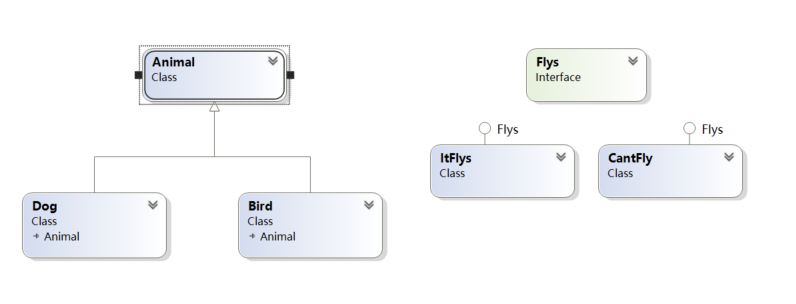
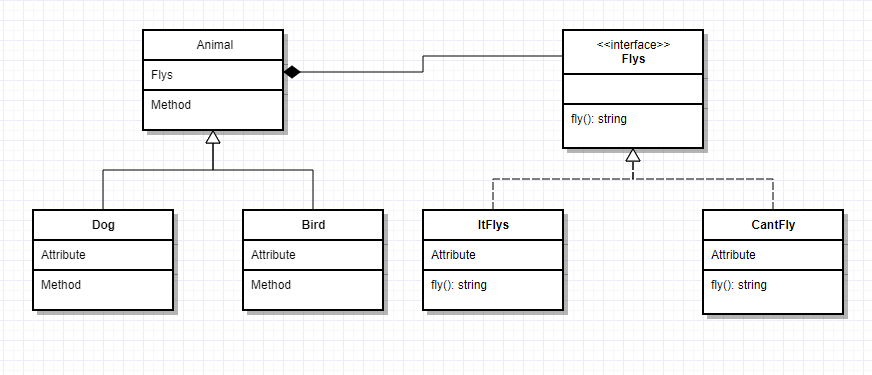
Add an article
"Observer Design Pattern"
Revise pattern diagram

Changed region(s): [[0.0302, 0.0592, 0.995, 0.8586], [0.4824, 0.0592, 0.8442, 0.4441], [0.8442, 0.4145, 0.9045, 0.4441]]

diff --git a/_posts/2017-09-12-observer-design-pattern.md b/_posts/2017-09-12-observer-design-pattern.md
@@ -1,0 +1,227 @@
+---
+title: "Observer Design Pattern"
+date: 2017-09-12
+category: Other
+tags: [design pattern, observer]
+comments: true
+
+---
+
+## When to use
+
+When you need many other objects to receive an update when another object changes.  
+* Stock market with thousands of stocks needs to send updates to objects representing individual stocks.  
+* The Subject (publisher) sends many stocks to the Observers  
+* The Observers (subscribers) takes the ones they want and use them  
+
+***
+
+## Strengths
+* Loose coupling is a benefit  
+    * The Subject (publisher) doesn't need to know anything about the Observers (subscribers)
+
+***
+## Negatives
+
+* The Subject (publisher) may send updates that don't matter to the Observer (subscriber)
+
+  
+*** 
+
+## Relation diagram
+
+
+<p align="center">
+<img src="/images/post/20170912002.png" alt="observer diagram" width="70%"  /><br/>
+<center><h5><b>Figure 1</b></h5></center>
+</p>
+
+The **Observer pattern** is a software design pattern in which an object, called the subject, maintains a list of its dependents, called observers, and notifies them automatically of any state changes, usually by calling one of their methods.  
+
+***
+
+## Code implementation
+
+**Subject.cs**  
+  
+    /*
+     * This interface handles adding, deleting and updating
+     * all observers
+     */
+    public interface Subject
+    {
+        void Register(Observer o);
+
+        void Unregister(Observer o);
+
+        void NotifyObserver();
+    }
+
+**Observer.cs**  
+
+    /*
+     * The Observers update method is called when the Subject changes
+     */
+    public interface Observer
+    {
+        new void Update(double ibmPrice, double aaplPrice, double googPrice);
+    }
+
+
+**StockGrabber.cs**  
+
+    // Uses the Subject interface to update all Observers
+    public class StockGrabber: Subject
+    {
+        private List<Observer> observers;
+
+        private double ibmPrice;
+        private double aaplPrice;
+        private double googPrice;
+
+        public StockGrabber()
+        {
+            // Creates an List to hold all observers
+            observers = new List<Observer>();
+        }
+        public void Register(Observer newObserver)
+        {
+            observers.Add(newObserver);
+        }
+
+        public void Unregister(Observer deleteObserver)
+        {
+            // Get the index of the observer to delete
+            int observerIndex = observers.IndexOf(deleteObserver);
+
+            // Print out message (Have to increment index to match)
+            Console.WriteLine("Observer " + (observerIndex + 1) + " deleted");
+
+            // Removes observer from the List
+            observers.RemoveAt(observerIndex);
+        }
+
+        public void NotifyObserver()
+        {
+            // cycle through all observers and notifies them of price changes
+
+            foreach (Observer observer in observers)
+            {
+                observer.Update(ibmPrice, aaplPrice, googPrice);
+            }
+        }
+
+        public void setIBMPrice(double newIBMPrice)
+        {
+            this.ibmPrice = newIBMPrice;
+            NotifyObserver();
+        }
+
+        public void setAPPLPrice(double newAPPLPrice)
+        {
+            this.aaplPrice = newAPPLPrice;
+            NotifyObserver();
+        }
+
+        public void setGOOGPrice(double newGOOGPrice)
+        {
+            this.googPrice = newGOOGPrice;
+            NotifyObserver();
+        }
+    }
+        
+**StockObserver.cs**  
+
+    // Represents each Observer that is monitoring changes in the subject
+    public class StockObserver:Observer
+    {
+        private double ibmPrice;
+        private double applPrice;
+        private double googPrice;
+
+        // Static used as a counter
+        private static int observerIDTracker = 0;
+
+        // Used to track the observers
+        private int observerID;
+
+        // Will hold reference to the StockGrabber object
+        private Subject stockGrabber;
+
+        public StockObserver(Subject stockGrabber)
+        {
+            /*
+             * Store the reference to the stockGrabber object so
+             * I can make calls to its methods
+             */
+            this.stockGrabber = stockGrabber;
+
+            // Assign an observer ID and increment the static counter
+            this.observerID = ++observerIDTracker;
+
+            // Message notifies user of new observer
+            Console.WriteLine("New Observer " + this.observerID);
+
+            // Add the observer to the Subjects List
+            stockGrabber.Register(this);
+        }
+
+        public void Update(double ibmPrice, double applPrice, double googPrice)
+        {
+            this.ibmPrice = ibmPrice;
+            this.applPrice = applPrice;
+            this.googPrice = googPrice;
+
+            printThePrices();
+        }
+
+        public void printThePrices()
+        {
+            Console.WriteLine(observerID + "\nIBM: " + ibmPrice +
+                              "\nAAPL: " + applPrice + "\nGOOG: " + googPrice + "\n");
+        }
+    }
+    
+**GrabStocks.cs**
+    
+    public class GrabStocks
+    {
+        public static void Main(string[] args)
+        {
+            StockGrabber stockGrabber = new StockGrabber();
+
+            StockObserver observer1 = new StockObserver(stockGrabber);
+
+            stockGrabber.setIBMPrice(197.00);
+            stockGrabber.setAPPLPrice(677.60);
+            stockGrabber.setGOOGPrice(676.40);
+            
+            StockObserver observer2 = new StockObserver(stockGrabber);
+
+            stockGrabber.setIBMPrice(197.00);
+            stockGrabber.setAPPLPrice(677.60);
+            stockGrabber.setGOOGPrice(676.40);
+
+            stockGrabber.Unregister(observer1);
+
+            stockGrabber.setIBMPrice(197.00);
+            stockGrabber.setAPPLPrice(677.60);
+            stockGrabber.setGOOGPrice(676.40);
+
+            Console.ReadKey();
+        }
+    }
+    
+And then we will see the result like below:  
+
+<p align="center">
+<img src="/images/post/20170912003.png" alt="observer diagram result" width="70%"  /><br/>
+<center><h5><b>Figure 2</b></h5></center>
+</p>
+
+****
+
+Please take some time to digest observer design pattern. I found that design patterns are really awesome things which are created by those genius in this field.  
+  
+  
+

diff --git a/_posts/2017-09-12-strategy-design-pattern.md b/_posts/2017-09-12-strategy-design-pattern.md
@@ -14,6 +14,7 @@ E.g. I want the class object to be able to choose from
 * Not Flying  
 * Fly with wings  
 * Fly super fast  
+
 When you need to use one of several behaviors dynamically.  
 
 ***
@@ -23,7 +24,12 @@ When you need to use one of several behaviors dynamically.
 * Avoids duplicate code
 * Keeps class changes from forcing other class changes
 * Can hide complicated / secret code from the user
-* Negative: Increased Number of Objects /Classes
+
+***
+  
+## Negatives
+
+* Increased Number of Objects / Classes
   
 *** 
 
